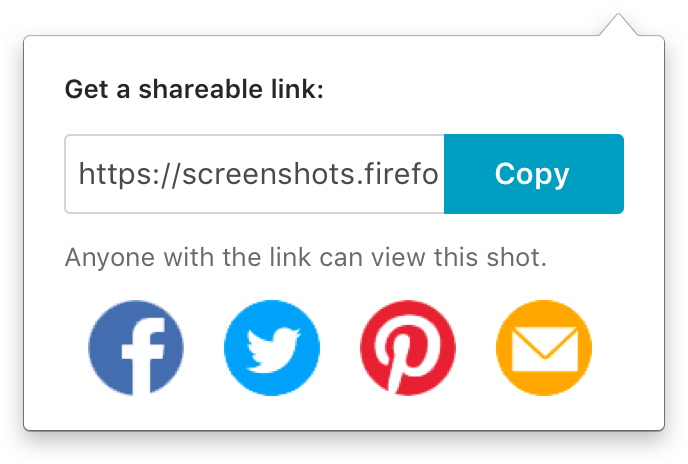
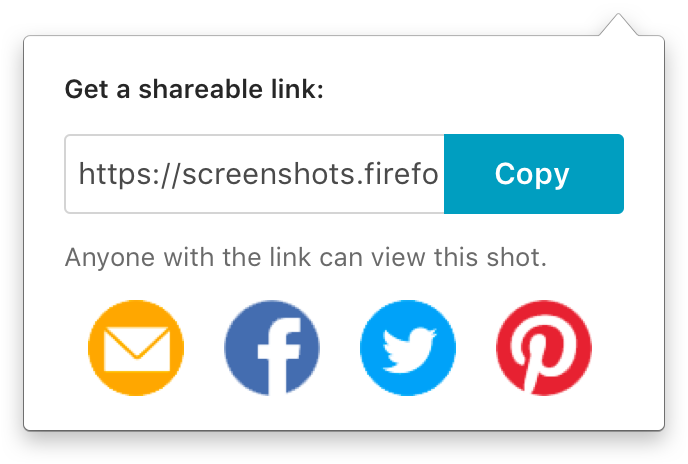
Updates menu specs

diff --git a/menus/index.html b/menus/index.html
@@ -1559,7 +1559,7 @@ var I18N = {},
     init.prototype = SMApp.fn;
     window.SMApp = SMApp;
 })(window);
-$(function(){ SMApp({"scale":"1","unit":"px","colorFormat":"color-hex","artboards":[{"layers":[{"objectID":"9676976F-15D6-4E52-8C47-3437DF64ABA2","type":"shape","name":"Combined Shape Copy","rect":{"x":12,"y":7,"width":320,"height":127},"rotation":0,"radius":3,"borders":[{"fillType":"color","position":"outside","thickness":0.5,"color":{"r":0,"g":0,"b":0,"a":0.2954596920289855,"color-hex":"#000000 30%","argb-hex":"#4B000000","css-rgba":"rgba(0,0,0,0.3)","ui-color":"(r:0.00 g:0.00 b:0.00 a:0.30)"}}],"fills":[{"fillType":"color","color":{"r":255,"g":255,"b":255,"a":1,"color-hex":"#FFFFFF 100%","argb-hex":"#FFFFFFFF","css-rgba":"rgba(255,255,255,1)","ui-color":"(r:1.00 g:1.00 b:1.00 a:1.00)"}}],"shadows":[{"type":"outer","offsetX":0,"offsetY":0.5,"blurRadius":0,"spread":0,"color":{"r":0,"g":0,"b":0,"a":0.289458786231884,"color-hex":"#000000 29%","argb-hex":"#4A000000","css-rgba":"rgba(0,0,0,0.29)","ui-color":"(r:0.00 g:0.00 b:0.00 a:0.29)"}},{"type":"outer","offsetX":0,"offsetY":5,"blurRadius":11,"spread":0,"color":{"r":0,"g":0,"b":0,"a":0.2522361865942029,"color-hex":"#000000 25%","argb-hex":"#40000000","css-rgba":"rgba(0,0,0,0.25)","ui-color":"(r:0.00 g:0.00 b:0.00 a:0.25)"}},{"type":"inner","offsetX":0,"offsetY":0.5,"blurRadius":0,"spread":0,"color":{"r":255,"g":255,"b":255,"a":1,"color-hex":"#FFFFFF 100%","argb-hex":"#FFFFFFFF","css-rgba":"rgba(255,255,255,1)","ui-color":"(r:1.00 g:1.00 b:1.00 a:1.00)"}}],"opacity":1,"styleName":"","css":["background: #FFFFFF;","border: 0 solid rgba(0,0,0,0.30);","box-shadow: 0 5px 11px 0 rgba(0,0,0,0.25), 0 0 0 0 rgba(0,0,0,0.29), inset 0 0 0 0 #FFFFFF;","border-radius: 3px;"]},{"objectID":"64818195-3478-4863-8990-5958DECAA9ED","type":"shape","name":"Rectangle 5","rect":{"x":32,"y":71,"width":135,"height":40},"rotation":0,"radius":3,"borders":[],"fills":[{"fillType":"color","color":{"r":0,"g":158,"b":192,"a":1,"color-hex":"#009EC0 100%","argb-hex":"#FF009EC0","css-rgba":"rgba(0,158,192,1)","ui-color":"(r:0.00 g:0.62 b:0.75 a:1.00)"}}],"shadows":[],"opacity":1,"styleName":"","css":["background: #009EC0;","border-radius: 3px;"]},{"objectID":"D41F28B7-A1D2-476A-A14E-7978A355FFC0","type":"text","name":"Cancel","rect":{"x":32,"y":82,"width":135,"height":18},"rotation":0,"radius":0,"borders":[],"fills":[],"shadows":[],"opacity":1,"styleName":"","content":"Cancel","color":{"r":255,"g":255,"b":255,"a":1,"color-hex":"#FFFFFF 100%","argb-hex":"#FFFFFFFF","css-rgba":"rgba(255,255,255,1)","ui-color":"(r:1.00 g:1.00 b:1.00 a:1.00)"},"fontSize":15,"fontFace":"SFUIText-Semibold","textAlign":"center","letterSpacing":0,"lineHeight":18,"css":["font-family: SFUIText-Semibold;","font-size: 15px;","color: #FFFFFF;","letter-spacing: 0;","text-align: center;"]},{"objectID":"C537C3B9-589C-4F14-AD93-FF4EF29BED20","type":"shape","name":"Rectangle 5","rect":{"x":177,"y":71,"width":135,"height":40},"rotation":0,"radius":3,"borders":[{"fillType":"color","position":"inside","thickness":1,"color":{"r":199,"g":199,"b":199,"a":1,"color-hex":"#C7C7C7 100%","argb-hex":"#FFC7C7C7","css-rgba":"rgba(199,199,199,1)","ui-color":"(r:0.78 g:0.78 b:0.78 a:1.00)"}}],"fills":[],"shadows":[],"opacity":1,"styleName":"","css":["border: 1px solid #C7C7C7;","border-radius: 3px;"]},{"objectID":"4EC3954B-E12B-4A5F-B96C-1CED337F1175","type":"text","name":"Delete","rect":{"x":177,"y":82,"width":135,"height":18},"rotation":0,"radius":0,"borders":[],"fills":[],"shadows":[],"opacity":1,"styleName":"","content":"Delete","color":{"r":56,"g":56,"b":61,"a":1,"color-hex":"#38383D 100%","argb-hex":"#FF38383D","css-rgba":"rgba(56,56,61,1)","ui-color":"(r:0.22 g:0.22 b:0.24 a:1.00)"},"fontSize":15,"fontFace":"SFUIText-Semibold","textAlign":"center","letterSpacing":0,"lineHeight":18,"css":["font-family: SFUIText-Semibold;","font-size: 15px;","color: #38383D;","letter-spacing: 0;","text-align: center;"]},{"objectID":"63F2677F-FA0D-46E2-A576-898A5FC53648","type":"text","name":"Label","rect":{"x":33,"y":36,"width":280,"height":18},"rotation":0,"radius":0,"borders":[],"fills":[],"shadows":[],"opacity":1,"styleName":"","content":"Are you sure you want to delete this shot?","color":{"r":38,"g":38,"b":38,"a":1,"color-hex":"#262626 100%","argb-hex":"#FF262626","css-rgba":"rgba(38,38,38,1)","ui-color":"(r:0.15 g:0.15 b:0.15 a:1.00)"},"fontSize":13,"fontFace":"SFUIText-Regular","textAlign":"left","letterSpacing":0,"lineHeight":18,"css":["font-family: SFUIText-Regular;","font-size: 13px;","color: #262626;","line-height: 18px;"]}],"notes":[],"pageName":"Page 1","pageObjectID":"CB0FAD7B-CC56-4210-BD4C-2796228799D9","name":"Deletion UI","slug":"page-1-deletion-ui","objectID":"91FF8EB3-EB1F-407C-8607-9E1EEA608E00","width":344,"height":152,"imagePath":"preview/page-1-deletion-ui.png"},{"layers":[{"objectID":"102E74FD-D1DD-44CF-B14A-F383D80F8DD5","type":"shape","name":"Combined Shape Copy","rect":{"x":12,"y":7,"width":320,"height":208,"maxX":332,"maxY":215},"rotation":0,"radius":3,"borders":[{"fillType":"color","position":"outside","thickness":0.5,"color":{"r":0,"g":0,"b":0,"a":0.2954596920289855,"color-hex":"#000000 30%","argb-hex":"#4B000000","css-rgba":"rgba(0,0,0,0.3)","ui-color":"(r:0.00 g:0.00 b:0.00 a:0.30)"}}],"fills":[{"fillType":"color","color":{"r":255,"g":255,"b":255,"a":1,"color-hex":"#FFFFFF 100%","argb-hex":"#FFFFFFFF","css-rgba":"rgba(255,255,255,1)","ui-color":"(r:1.00 g:1.00 b:1.00 a:1.00)"}}],"shadows":[{"type":"outer","offsetX":0,"offsetY":0.5,"blurRadius":0,"spread":0,"color":{"r":0,"g":0,"b":0,"a":0.289458786231884,"color-hex":"#000000 29%","argb-hex":"#4A000000","css-rgba":"rgba(0,0,0,0.29)","ui-color":"(r:0.00 g:0.00 b:0.00 a:0.29)"}},{"type":"outer","offsetX":0,"offsetY":5,"blurRadius":11,"spread":0,"color":{"r":0,"g":0,"b":0,"a":0.2522361865942029,"color-hex":"#000000 25%","argb-hex":"#40000000","css-rgba":"rgba(0,0,0,0.25)","ui-color":"(r:0.00 g:0.00 b:0.00 a:0.25)"}},{"type":"inner","offsetX":0,"offsetY":0.5,"blurRadius":0,"spread":0,"color":{"r":255,"g":255,"b":255,"a":1,"color-hex":"#FFFFFF 100%","argb-hex":"#FFFFFFFF","css-rgba":"rgba(255,255,255,1)","ui-color":"(r:1.00 g:1.00 b:1.00 a:1.00)"}}],"opacity":1,"styleName":"","css":["background: #FFFFFF;","border: 0 solid rgba(0,0,0,0.30);","box-shadow: 0 5px 11px 0 rgba(0,0,0,0.25), 0 0 0 0 rgba(0,0,0,0.29), inset 0 0 0 0 #FFFFFF;","border-radius: 3px;"]},{"objectID":"CD06A5D5-19B8-4215-ADE9-75C5782B6E77","type":"shape","name":"Rectangle 5","rect":{"x":32,"y":67,"width":273,"height":40},"rotation":0,"radius":3,"borders":[{"fillType":"color","position":"inside","thickness":1,"color":{"r":212,"g":212,"b":212,"a":1,"color-hex":"#D4D4D4 100%","argb-hex":"#FFD4D4D4","css-rgba":"rgba(212,212,212,1)","ui-color":"(r:0.83 g:0.83 b:0.83 a:1.00)"}}],"fills":[{"fillType":"color","color":{"r":255,"g":255,"b":255,"a":1,"color-hex":"#FFFFFF 100%","argb-hex":"#FFFFFFFF","css-rgba":"rgba(255,255,255,1)","ui-color":"(r:1.00 g:1.00 b:1.00 a:1.00)"}}],"shadows":[],"opacity":1,"styleName":"","css":["background: #FFFFFF;","border: 1px solid #D4D4D4;","border-radius: 3px;"]},{"objectID":"A113031C-CDAF-45F9-A7EE-009D13020A23","type":"shape","name":"Rectangle 5","rect":{"x":222,"y":67,"width":90,"height":40},"rotation":0,"radius":3,"borders":[],"fills":[{"fillType":"color","color":{"r":0,"g":158,"b":192,"a":1,"color-hex":"#009EC0 100%","argb-hex":"#FF009EC0","css-rgba":"rgba(0,158,192,1)","ui-color":"(r:0.00 g:0.62 b:0.75 a:1.00)"}}],"shadows":[],"opacity":1,"styleName":"","css":["background: #009EC0;","border-radius: 0 3px 3px 0;"]},{"objectID":"22972803-4C7A-44F3-A8DB-DD35A269DE69","type":"text","name":"https://screenshots.","rect":{"x":39,"y":78,"width":213,"height":18},"rotation":0,"radius":0,"borders":[],"fills":[],"shadows":[],"opacity":1,"styleName":"","content":"https://screenshots.firefo","color":{"r":74,"g":74,"b":74,"a":1,"color-hex":"#4A4A4A 100%","argb-hex":"#FF4A4A4A","css-rgba":"rgba(74,74,74,1)","ui-color":"(r:0.29 g:0.29 b:0.29 a:1.00)"},"fontSize":15,"fontFace":"SFUIText-Regular","textAlign":"left","letterSpacing":0,"lineHeight":18,"css":["font-family: SFUIText-Regular;","font-size: 15px;","color: #4A4A4A;","letter-spacing: 0;"]},{"objectID":"0D2D2391-153E-4A9A-9D40-CF74F9A13F78","type":"text","name":"Copy","rect":{"x":247,"y":78,"width":41,"height":18},"rotation":0,"radius":0,"borders":[],"fills":[],"shadows":[],"opacity":1,"styleName":"","content":"Copy","color":{"r":255,"g":255,"b":255,"a":1,"color-hex":"#FFFFFF 100%","argb-hex":"#FFFFFFFF","css-rgba":"rgba(255,255,255,1)","ui-color":"(r:1.00 g:1.00 b:1.00 a:1.00)"},"fontSize":15,"fontFace":"SFUIText-Semibold","textAlign":"left","letterSpacing":0,"lineHeight":18,"css":["font-family: SFUIText-Semibold;","font-size: 15px;","color: #FFFFFF;","letter-spacing: 0;"]},{"objectID":"D96CBDBA-40C9-49F2-A9A0-95C8C09D0013","type":"text","name":"Label","rect":{"x":32,"y":35,"width":200,"height":18},"rotation":0,"radius":0,"borders":[],"fills":[],"shadows":[],"opacity":1,"styleName":"","content":"Get a shareable link:","color":{"r":38,"g":38,"b":38,"a":1,"color-hex":"#262626 100%","argb-hex":"#FF262626","css-rgba":"rgba(38,38,38,1)","ui-color":"(r:0.15 g:0.15 b:0.15 a:1.00)"},"fontSize":13,"fontFace":"SFUIText-Semibold","textAlign":"left","letterSpacing":0,"lineHeight":18,"css":["font-family: SFUIText-Semibold;","font-size: 13px;","color: #262626;","line-height: 18px;"]},{"objectID":"5607AB46-2D51-4003-BE6F-3E9E884CD17A","type":"text","name":"Anyone with the link","rect":{"x":32,"y":119,"width":242,"height":18},"rotation":0,"radius":0,"borders":[],"fills":[],"shadows":[],"opacity":1,"styleName":"","content":"Anyone with the link can view this shot.","color":{"r":106,"g":106,"b":106,"a":1,"color-hex":"#6A6A6A 100%","argb-hex":"#FF6A6A6A","css-rgba":"rgba(106,106,106,1)","ui-color":"(r:0.42 g:0.42 b:0.42 a:1.00)"},"fontSize":13,"fontFace":"SFUIText-Regular","textAlign":"left","letterSpacing":0,"lineHeight":18,"css":["font-family: SFUIText-Regular;","font-size: 13px;","color: #6A6A6A;","line-height: 18px;"]},{"objectID":"58C17288-EF77-4D34-A47B-1DC5F63855B3","type":"shape","name":"Bitmap","rect":{"x":248,"y":150,"width":48,"height":48},"rotation":0,"radius":0,"borders":[],"fills":[],"shadows":[],"opacity":1,"styleName":""},{"objectID":"A3A5077D-8542-42C7-8AAB-6AB14ECD85D6","type":"shape","name":"Bitmap","rect":{"x":180,"y":150,"width":48,"height":48},"rotation":0,"radius":0,"borders":[],"fills":[],"shadows":[],"opacity":1,"styleName":""},{"objectID":"DFE673E9-BFA4-4430-A234-F4C4EE2826F9","type":"shape","name":"Bitmap","rect":{"x":112,"y":150,"width":48,"height":48},"rotation":0,"radius":0,"borders":[],"fills":[],"shadows":[],"opacity":1,"styleName":""},{"objectID":"A33F17BB-6BC7-4AEC-8820-75D07AF8D405","type":"shape","name":"Bitmap","rect":{"x":44,"y":150,"width":48,"height":48},"rotation":0,"radius":0,"borders":[],"fills":[],"shadows":[],"opacity":1,"styleName":""}],"notes":[],"pageName":"Page 1","pageObjectID":"CB0FAD7B-CC56-4210-BD4C-2796228799D9","name":"Share UI","slug":"page-1-share-ui","objectID":"12E099F5-C320-47E9-8746-3A5FFB88B976","width":344,"height":232,"imagePath":"preview/page-1-share-ui.png"}],"slices":[],"colors":[]}) });
+$(function(){ SMApp({"scale":"1","unit":"px","colorFormat":"color-hex","artboards":[{"layers":[{"objectID":"9676976F-15D6-4E52-8C47-3437DF64ABA2","type":"shape","name":"Combined Shape Copy","rect":{"x":12,"y":7,"width":320,"height":127},"rotation":0,"radius":3,"borders":[{"fillType":"color","position":"outside","thickness":0.5,"color":{"r":0,"g":0,"b":0,"a":0.2954596920289855,"color-hex":"#000000 30%","argb-hex":"#4B000000","css-rgba":"rgba(0,0,0,0.3)","ui-color":"(r:0.00 g:0.00 b:0.00 a:0.30)"}}],"fills":[{"fillType":"color","color":{"r":255,"g":255,"b":255,"a":1,"color-hex":"#FFFFFF 100%","argb-hex":"#FFFFFFFF","css-rgba":"rgba(255,255,255,1)","ui-color":"(r:1.00 g:1.00 b:1.00 a:1.00)"}}],"shadows":[{"type":"outer","offsetX":0,"offsetY":0.5,"blurRadius":0,"spread":0,"color":{"r":0,"g":0,"b":0,"a":0.289458786231884,"color-hex":"#000000 29%","argb-hex":"#4A000000","css-rgba":"rgba(0,0,0,0.29)","ui-color":"(r:0.00 g:0.00 b:0.00 a:0.29)"}},{"type":"outer","offsetX":0,"offsetY":5,"blurRadius":11,"spread":0,"color":{"r":0,"g":0,"b":0,"a":0.2522361865942029,"color-hex":"#000000 25%","argb-hex":"#40000000","css-rgba":"rgba(0,0,0,0.25)","ui-color":"(r:0.00 g:0.00 b:0.00 a:0.25)"}},{"type":"inner","offsetX":0,"offsetY":0.5,"blurRadius":0,"spread":0,"color":{"r":255,"g":255,"b":255,"a":1,"color-hex":"#FFFFFF 100%","argb-hex":"#FFFFFFFF","css-rgba":"rgba(255,255,255,1)","ui-color":"(r:1.00 g:1.00 b:1.00 a:1.00)"}}],"opacity":1,"styleName":"","css":["background: #FFFFFF;","border: 0 solid rgba(0,0,0,0.30);","box-shadow: 0 5px 11px 0 rgba(0,0,0,0.25), 0 0 0 0 rgba(0,0,0,0.29), inset 0 0 0 0 #FFFFFF;","border-radius: 3px;"]},{"objectID":"64818195-3478-4863-8990-5958DECAA9ED","type":"shape","name":"Rectangle 5","rect":{"x":32,"y":71,"width":135,"height":40},"rotation":0,"radius":3,"borders":[],"fills":[{"fillType":"color","color":{"r":0,"g":158,"b":192,"a":1,"color-hex":"#009EC0 100%","argb-hex":"#FF009EC0","css-rgba":"rgba(0,158,192,1)","ui-color":"(r:0.00 g:0.62 b:0.75 a:1.00)"}}],"shadows":[],"opacity":1,"styleName":"","css":["background: #009EC0;","border-radius: 3px;"]},{"objectID":"D41F28B7-A1D2-476A-A14E-7978A355FFC0","type":"text","name":"Cancel","rect":{"x":32,"y":82,"width":135,"height":18},"rotation":0,"radius":0,"borders":[],"fills":[],"shadows":[],"opacity":1,"styleName":"","content":"Cancel","color":{"r":255,"g":255,"b":255,"a":1,"color-hex":"#FFFFFF 100%","argb-hex":"#FFFFFFFF","css-rgba":"rgba(255,255,255,1)","ui-color":"(r:1.00 g:1.00 b:1.00 a:1.00)"},"fontSize":15,"fontFace":"SFUIText-Semibold","textAlign":"center","letterSpacing":0,"lineHeight":18,"css":["font-family: SFUIText-Semibold;","font-size: 15px;","color: #FFFFFF;","letter-spacing: 0;","text-align: center;"]},{"objectID":"C537C3B9-589C-4F14-AD93-FF4EF29BED20","type":"shape","name":"Rectangle 5","rect":{"x":177,"y":71,"width":135,"height":40},"rotation":0,"radius":3,"borders":[{"fillType":"color","position":"inside","thickness":1,"color":{"r":199,"g":199,"b":199,"a":1,"color-hex":"#C7C7C7 100%","argb-hex":"#FFC7C7C7","css-rgba":"rgba(199,199,199,1)","ui-color":"(r:0.78 g:0.78 b:0.78 a:1.00)"}}],"fills":[],"shadows":[],"opacity":1,"styleName":"","css":["border: 1px solid #C7C7C7;","border-radius: 3px;"]},{"objectID":"4EC3954B-E12B-4A5F-B96C-1CED337F1175","type":"text","name":"Delete","rect":{"x":177,"y":82,"width":135,"height":18},"rotation":0,"radius":0,"borders":[],"fills":[],"shadows":[],"opacity":1,"styleName":"","content":"Delete","color":{"r":56,"g":56,"b":61,"a":1,"color-hex":"#38383D 100%","argb-hex":"#FF38383D","css-rgba":"rgba(56,56,61,1)","ui-color":"(r:0.22 g:0.22 b:0.24 a:1.00)"},"fontSize":15,"fontFace":"SFUIText-Semibold","textAlign":"center","letterSpacing":0,"lineHeight":18,"css":["font-family: SFUIText-Semibold;","font-size: 15px;","color: #38383D;","letter-spacing: 0;","text-align: center;"]},{"objectID":"63F2677F-FA0D-46E2-A576-898A5FC53648","type":"text","name":"Label","rect":{"x":33,"y":36,"width":280,"height":18},"rotation":0,"radius":0,"borders":[],"fills":[],"shadows":[],"opacity":1,"styleName":"","content":"Are you sure you want to delete this shot?","color":{"r":38,"g":38,"b":38,"a":1,"color-hex":"#262626 100%","argb-hex":"#FF262626","css-rgba":"rgba(38,38,38,1)","ui-color":"(r:0.15 g:0.15 b:0.15 a:1.00)"},"fontSize":13,"fontFace":"SFUIText-Regular","textAlign":"left","letterSpacing":0,"lineHeight":18,"css":["font-family: SFUIText-Regular;","font-size: 13px;","color: #262626;","line-height: 18px;"]}],"notes":[],"pageName":"Page 1","pageObjectID":"CB0FAD7B-CC56-4210-BD4C-2796228799D9","name":"Deletion UI","slug":"page-1-deletion-ui","objectID":"91FF8EB3-EB1F-407C-8607-9E1EEA608E00","width":344,"height":152,"imagePath":"preview/page-1-deletion-ui.png"},{"layers":[{"objectID":"102E74FD-D1DD-44CF-B14A-F383D80F8DD5","type":"shape","name":"Combined Shape Copy","rect":{"x":12,"y":7,"width":320,"height":208,"maxX":332,"maxY":215},"rotation":0,"radius":3,"borders":[{"fillType":"color","position":"outside","thickness":0.5,"color":{"r":0,"g":0,"b":0,"a":0.2954596920289855,"color-hex":"#000000 30%","argb-hex":"#4B000000","css-rgba":"rgba(0,0,0,0.3)","ui-color":"(r:0.00 g:0.00 b:0.00 a:0.30)"}}],"fills":[{"fillType":"color","color":{"r":255,"g":255,"b":255,"a":1,"color-hex":"#FFFFFF 100%","argb-hex":"#FFFFFFFF","css-rgba":"rgba(255,255,255,1)","ui-color":"(r:1.00 g:1.00 b:1.00 a:1.00)"}}],"shadows":[{"type":"outer","offsetX":0,"offsetY":0.5,"blurRadius":0,"spread":0,"color":{"r":0,"g":0,"b":0,"a":0.289458786231884,"color-hex":"#000000 29%","argb-hex":"#4A000000","css-rgba":"rgba(0,0,0,0.29)","ui-color":"(r:0.00 g:0.00 b:0.00 a:0.29)"}},{"type":"outer","offsetX":0,"offsetY":5,"blurRadius":11,"spread":0,"color":{"r":0,"g":0,"b":0,"a":0.2522361865942029,"color-hex":"#000000 25%","argb-hex":"#40000000","css-rgba":"rgba(0,0,0,0.25)","ui-color":"(r:0.00 g:0.00 b:0.00 a:0.25)"}},{"type":"inner","offsetX":0,"offsetY":0.5,"blurRadius":0,"spread":0,"color":{"r":255,"g":255,"b":255,"a":1,"color-hex":"#FFFFFF 100%","argb-hex":"#FFFFFFFF","css-rgba":"rgba(255,255,255,1)","ui-color":"(r:1.00 g:1.00 b:1.00 a:1.00)"}}],"opacity":1,"styleName":"","css":["background: #FFFFFF;","border: 0 solid rgba(0,0,0,0.30);","box-shadow: 0 5px 11px 0 rgba(0,0,0,0.25), 0 0 0 0 rgba(0,0,0,0.29), inset 0 0 0 0 #FFFFFF;","border-radius: 3px;"]},{"objectID":"CD06A5D5-19B8-4215-ADE9-75C5782B6E77","type":"shape","name":"Rectangle 5","rect":{"x":32,"y":67,"width":273,"height":40},"rotation":0,"radius":3,"borders":[{"fillType":"color","position":"inside","thickness":1,"color":{"r":212,"g":212,"b":212,"a":1,"color-hex":"#D4D4D4 100%","argb-hex":"#FFD4D4D4","css-rgba":"rgba(212,212,212,1)","ui-color":"(r:0.83 g:0.83 b:0.83 a:1.00)"}}],"fills":[{"fillType":"color","color":{"r":255,"g":255,"b":255,"a":1,"color-hex":"#FFFFFF 100%","argb-hex":"#FFFFFFFF","css-rgba":"rgba(255,255,255,1)","ui-color":"(r:1.00 g:1.00 b:1.00 a:1.00)"}}],"shadows":[],"opacity":1,"styleName":"","css":["background: #FFFFFF;","border: 1px solid #D4D4D4;","border-radius: 3px;"]},{"objectID":"A113031C-CDAF-45F9-A7EE-009D13020A23","type":"shape","name":"Rectangle 5","rect":{"x":222,"y":67,"width":90,"height":40},"rotation":0,"radius":3,"borders":[],"fills":[{"fillType":"color","color":{"r":0,"g":158,"b":192,"a":1,"color-hex":"#009EC0 100%","argb-hex":"#FF009EC0","css-rgba":"rgba(0,158,192,1)","ui-color":"(r:0.00 g:0.62 b:0.75 a:1.00)"}}],"shadows":[],"opacity":1,"styleName":"","css":["background: #009EC0;","border-radius: 0 3px 3px 0;"]},{"objectID":"22972803-4C7A-44F3-A8DB-DD35A269DE69","type":"text","name":"https://screenshots.","rect":{"x":39,"y":78,"width":213,"height":18},"rotation":0,"radius":0,"borders":[],"fills":[],"shadows":[],"opacity":1,"styleName":"","content":"https://screenshots.firefo","color":{"r":74,"g":74,"b":74,"a":1,"color-hex":"#4A4A4A 100%","argb-hex":"#FF4A4A4A","css-rgba":"rgba(74,74,74,1)","ui-color":"(r:0.29 g:0.29 b:0.29 a:1.00)"},"fontSize":15,"fontFace":"SFUIText-Regular","textAlign":"left","letterSpacing":0,"lineHeight":18,"css":["font-family: SFUIText-Regular;","font-size: 15px;","color: #4A4A4A;","letter-spacing: 0;"]},{"objectID":"0D2D2391-153E-4A9A-9D40-CF74F9A13F78","type":"text","name":"Copy","rect":{"x":247,"y":78,"width":41,"height":18},"rotation":0,"radius":0,"borders":[],"fills":[],"shadows":[],"opacity":1,"styleName":"","content":"Copy","color":{"r":255,"g":255,"b":255,"a":1,"color-hex":"#FFFFFF 100%","argb-hex":"#FFFFFFFF","css-rgba":"rgba(255,255,255,1)","ui-color":"(r:1.00 g:1.00 b:1.00 a:1.00)"},"fontSize":15,"fontFace":"SFUIText-Semibold","textAlign":"left","letterSpacing":0,"lineHeight":18,"css":["font-family: SFUIText-Semibold;","font-size: 15px;","color: #FFFFFF;","letter-spacing: 0;"]},{"objectID":"D96CBDBA-40C9-49F2-A9A0-95C8C09D0013","type":"text","name":"Label","rect":{"x":32,"y":35,"width":200,"height":18},"rotation":0,"radius":0,"borders":[],"fills":[],"shadows":[],"opacity":1,"styleName":"","content":"Get a shareable link:","color":{"r":38,"g":38,"b":38,"a":1,"color-hex":"#262626 100%","argb-hex":"#FF262626","css-rgba":"rgba(38,38,38,1)","ui-color":"(r:0.15 g:0.15 b:0.15 a:1.00)"},"fontSize":13,"fontFace":"SFUIText-Semibold","textAlign":"left","letterSpacing":0,"lineHeight":18,"css":["font-family: SFUIText-Semibold;","font-size: 13px;","color: #262626;","line-height: 18px;"]},{"objectID":"5607AB46-2D51-4003-BE6F-3E9E884CD17A","type":"text","name":"Anyone with the link","rect":{"x":32,"y":119,"width":242,"height":18},"rotation":0,"radius":0,"borders":[],"fills":[],"shadows":[],"opacity":1,"styleName":"","content":"Anyone with the link can view this shot.","color":{"r":106,"g":106,"b":106,"a":1,"color-hex":"#6A6A6A 100%","argb-hex":"#FF6A6A6A","css-rgba":"rgba(106,106,106,1)","ui-color":"(r:0.42 g:0.42 b:0.42 a:1.00)"},"fontSize":13,"fontFace":"SFUIText-Regular","textAlign":"left","letterSpacing":0,"lineHeight":18,"css":["font-family: SFUIText-Regular;","font-size: 13px;","color: #6A6A6A;","line-height: 18px;"]},{"objectID":"A3A5077D-8542-42C7-8AAB-6AB14ECD85D6","type":"shape","name":"Bitmap","rect":{"x":248,"y":150,"width":48,"height":48},"rotation":0,"radius":0,"borders":[],"fills":[],"shadows":[],"opacity":1,"styleName":""},{"objectID":"DFE673E9-BFA4-4430-A234-F4C4EE2826F9","type":"shape","name":"Bitmap","rect":{"x":180,"y":150,"width":48,"height":48},"rotation":0,"radius":0,"borders":[],"fills":[],"shadows":[],"opacity":1,"styleName":""},{"objectID":"A33F17BB-6BC7-4AEC-8820-75D07AF8D405","type":"shape","name":"Bitmap","rect":{"x":112,"y":150,"width":48,"height":48},"rotation":0,"radius":0,"borders":[],"fills":[],"shadows":[],"opacity":1,"styleName":""},{"objectID":"6E680DA9-3478-4474-A7DD-DF9F0EE5CE25","type":"shape","name":"Bitmap","rect":{"x":44,"y":150,"width":48,"height":48},"rotation":0,"radius":0,"borders":[],"fills":[],"shadows":[],"opacity":1,"styleName":""}],"notes":[],"pageName":"Page 1","pageObjectID":"CB0FAD7B-CC56-4210-BD4C-2796228799D9","name":"Share UI","slug":"page-1-share-ui","objectID":"12E099F5-C320-47E9-8746-3A5FFB88B976","width":344,"height":232,"imagePath":"preview/page-1-share-ui.png"}],"slices":[],"colors":[]}) });
     -->
     </script>
   </head>
